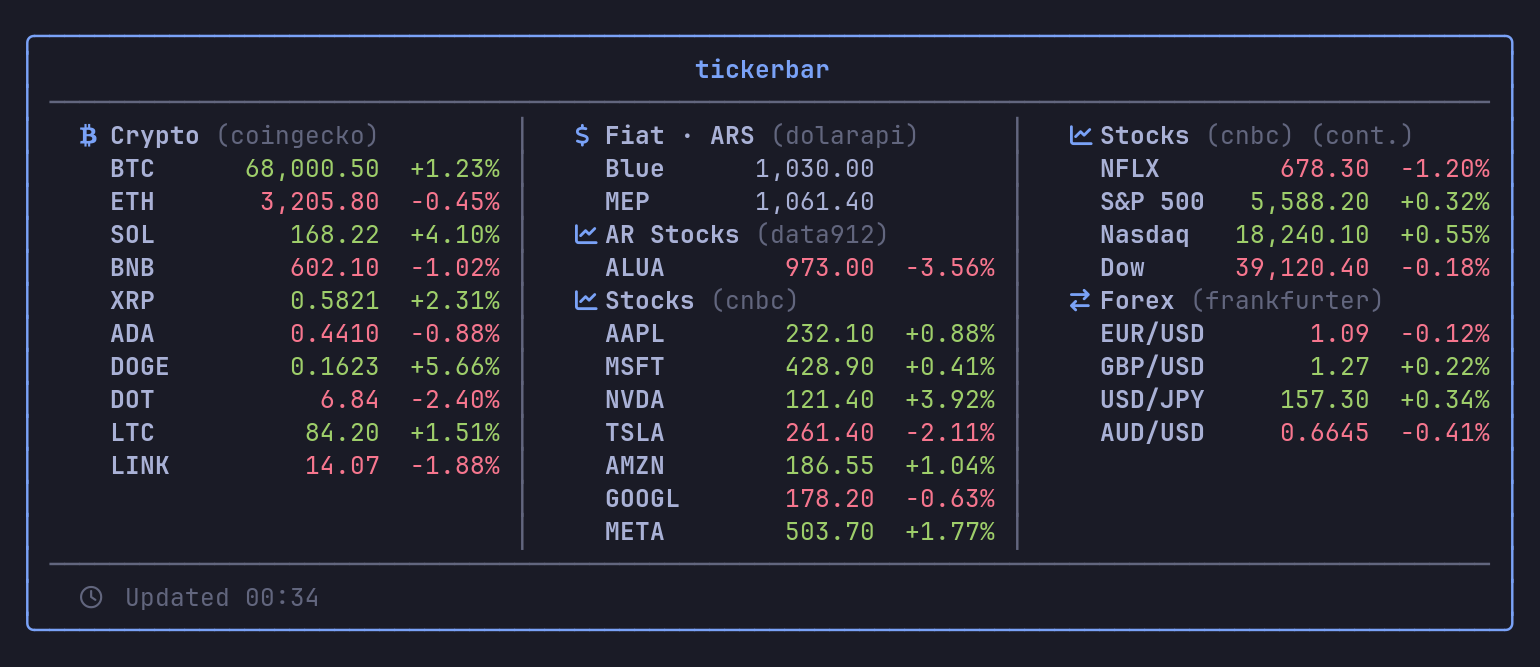
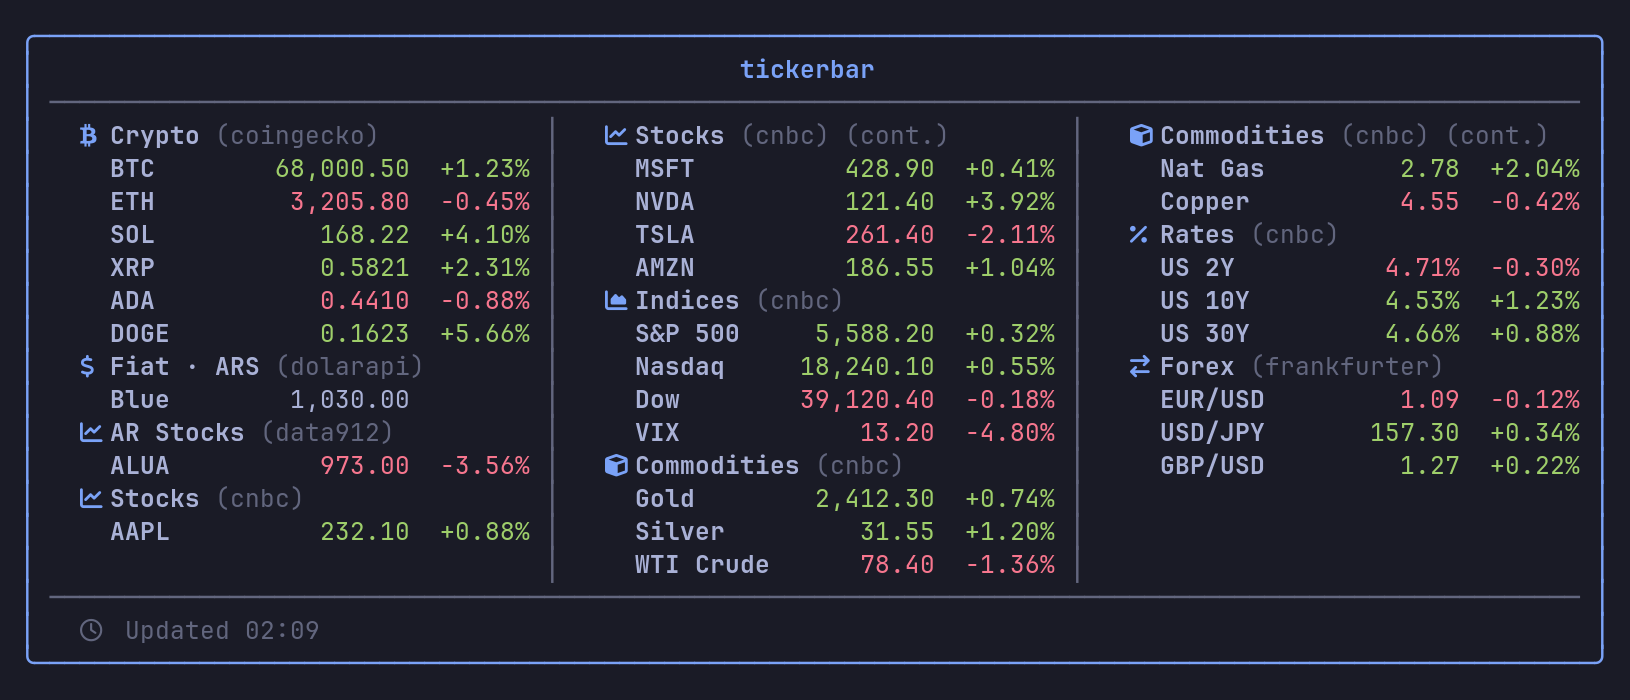
docs: refresh tooltip screenshots with new classes + Omarchy theming gallery
Regenerated tooltip-simple/full showing Crypto/Stocks/Indices/Commodities/Rates/Forex.
Added theme variants (Gruvbox, Catppuccin Latte, Everforest) and a Theming (Omarchy) README
section. examples/screenshot.rs demo updated to cover the new asset classes.

diff --git a/examples/screenshot.rs b/examples/screenshot.rs
@@ -88,6 +88,31 @@ fn ar(label: &str, panel: Panel, price: f64, chg: f64) -> (Asset, Quote) {
     )
 }
 
+fn com(label: &str, sym: &str, price: f64, chg: f64) -> (Asset, Quote) {
+    pair(
+        label,
+        AssetSource::Commodity { symbol: sym.into() },
+        price,
+        Some(chg),
+    )
+}
+fn idx(label: &str, sym: &str, price: f64, chg: f64) -> (Asset, Quote) {
+    pair(
+        label,
+        AssetSource::Index { symbol: sym.into() },
+        price,
+        Some(chg),
+    )
+}
+fn rate(label: &str, sym: &str, price: f64, chg: f64) -> (Asset, Quote) {
+    pair(
+        label,
+        AssetSource::Rate { symbol: sym.into() },
+        price,
+        Some(chg),
+    )
+}
+
 fn build_output(
     pairs: Vec<(Asset, Quote)>,
     display: Display,
@@ -111,12 +136,14 @@ fn render_tooltip(pairs: Vec<(Asset, Quote)>, display: Display) -> String {
 }
 
 fn simple() -> String {
+    // One of each asset class — the breadth in a single column.
     let pairs = vec![
         cg("BTC", "bitcoin", 68_000.50, 1.23),
         cg("ETH", "ethereum", 3_205.80, -0.45),
         us("AAPL", "AAPL", 232.10, 0.88),
-        us("TSLA", "TSLA", 261.40, -2.11),
-        us("S&P 500", ".SPX", 5_588.20, 0.32),
+        idx("S&P 500", "sp500", 5_588.20, 0.32),
+        com("Gold", "gold", 2_412.30, 0.74),
+        rate("US 10Y", "us10y", 4.53, 1.23),
         fx("EUR/USD", "eur", 1.0852, -0.12),
     ];
     let display = Display {
@@ -131,35 +158,35 @@ fn full() -> String {
         cg("BTC", "bitcoin", 68_000.50, 1.23),
         cg("ETH", "ethereum", 3_205.80, -0.45),
         cg("SOL", "solana", 168.22, 4.10),
-        cg("BNB", "binancecoin", 602.10, -1.02),
         cg("XRP", "ripple", 0.5821, 2.31),
         cg("ADA", "cardano", 0.4410, -0.88),
         cg("DOGE", "dogecoin", 0.1623, 5.66),
-        cg("DOT", "polkadot", 6.84, -2.40),
         us("AAPL", "AAPL", 232.10, 0.88),
         us("MSFT", "MSFT", 428.90, 0.41),
         us("NVDA", "NVDA", 121.40, 3.92),
         us("TSLA", "TSLA", 261.40, -2.11),
         us("AMZN", "AMZN", 186.55, 1.04),
-        us("GOOGL", "GOOGL", 178.20, -0.63),
-        us("META", "META", 503.70, 1.77),
-        us("NFLX", "NFLX", 678.30, -1.20),
-        us("S&P 500", ".SPX", 5_588.20, 0.32),
-        us("Nasdaq", ".IXIC", 18_240.10, 0.55),
-        us("Dow", ".DJI", 39_120.40, -0.18),
-        cg("LTC", "litecoin", 84.20, 1.51),
-        cg("LINK", "chainlink", 14.07, -1.88),
+        idx("S&P 500", "sp500", 5_588.20, 0.32),
+        idx("Nasdaq", "nasdaq", 18_240.10, 0.55),
+        idx("Dow", "dow", 39_120.40, -0.18),
+        idx("VIX", "vix", 13.20, -4.80),
+        com("Gold", "gold", 2_412.30, 0.74),
+        com("Silver", "silver", 31.55, 1.20),
+        com("WTI Crude", "wti", 78.40, -1.36),
+        com("Nat Gas", "natgas", 2.78, 2.04),
+        com("Copper", "copper", 4.55, -0.42),
+        rate("US 2Y", "us2y", 4.71, -0.30),
+        rate("US 10Y", "us10y", 4.53, 1.23),
+        rate("US 30Y", "us30y", 4.66, 0.88),
         fx("EUR/USD", "eur", 1.0852, -0.12),
-        fx("GBP/USD", "gbp", 1.2740, 0.22),
         fx("USD/JPY", "usd", 157.30, 0.34),
-        fx("AUD/USD", "aud", 0.6645, -0.41),
+        fx("GBP/USD", "gbp", 1.2740, 0.22),
         // A small taste of the Argentine-market support (full BYMA in the README).
         dolar("Blue", "blue", 1_030.0),
-        dolar("MEP", "bolsa", 1_061.4),
         ar("ALUA", Panel::Acciones, 973.0, -3.56),
     ];
     let display = Display {
-        tooltip_rows_per_column: 12,
+        tooltip_rows_per_column: 13,
         tooltip_max_columns: 0,
         ..Display::default()
     };

diff --git a/README.md b/README.md
@@ -159,6 +159,14 @@ enabled = false                # disable gating for one provider (e.g. a non-US 
 > track a non-US instrument through them. Exchange **holidays are not** accounted for — only
 > weekly session hours.
 
+## Theming (Omarchy)
+
+Tooltip and bar colors are read from the active [Omarchy](https://omarchy.org) theme at `~/.config/omarchy/current/theme/colors.toml` on every run — the accent, the up/down green/red, and the foreground/background all follow your theme (light themes included). On non-Omarchy systems a built-in dark palette is used as a fallback.
+
+| Gruvbox | Catppuccin Latte | Everforest |
+|:---:|:---:|:---:|
+| ![Gruvbox](screenshots/theme-gruvbox.png) | ![Catppuccin Latte](screenshots/theme-catppuccin-latte.png) | ![Everforest](screenshots/theme-everforest.png) |
+
 ## Waybar integration
 
 Add a custom module to `~/.config/waybar/config`:
